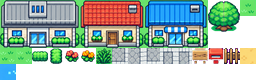
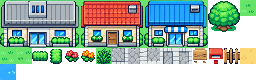
タイル・主人公のドット化：縮小フィルタをやめ、元絵のブロック中心の中央値を1ドットずつ拾う（輪郭がぼやけない）。道・水のオートタイルもドット単位で描く
Claude-Session: https://claude.ai/code/session_018VDSYCPciSbMvR8kKaJDnr

diff --git a/js/tiles.js b/js/tiles.js
@@ -44,26 +44,31 @@ const Tiles = (() => {
       const c = document.createElement('canvas'); c.width = 16; c.height = 16;
       const g = c.getContext('2d');
       g.drawImage(variant('grass', 3, x, y), 0, 0);
+      // ドット単位で内外を決める（曲線のアンチエイリアスでぼやけないように）
       const inset = kind === 'water' ? 2 : 3, r = kind === 'water' ? 3 : 5;
       const N = mask & 1, E = mask & 2, S = mask & 4, W = mask & 8;
-      const x0 = W ? -8 : inset, y0 = N ? -8 : inset, x1 = E ? 24 : 16 - inset, y1 = S ? 24 : 16 - inset;
-      const rr = (open1, open2) => (open1 || open2) ? 0 : r;   // 両側が閉じている角だけ丸める
-      const path = () => {
-        g.beginPath();
-        const tl = rr(N, W), tr = rr(N, E), br = rr(S, E), bl = rr(S, W);
-        g.moveTo(x0 + tl, y0); g.lineTo(x1 - tr, y0); g.quadraticCurveTo(x1, y0, x1, y0 + tr);
-        g.lineTo(x1, y1 - br); g.quadraticCurveTo(x1, y1, x1 - br, y1);
-        g.lineTo(x0 + bl, y1); g.quadraticCurveTo(x0, y1, x0, y1 - bl);
-        g.lineTo(x0, y0 + tl); g.quadraticCurveTo(x0, y0, x0 + tl, y0);
-        g.closePath();
+      const x0 = W ? -8 : inset, y0 = N ? -8 : inset, x1 = E ? 24 : 16 - inset, y1 = S ? 24 : 16 - inset;   // [x0,x1) の範囲
+      const inside = (px, py) => {
+        if (px < x0 || px >= x1 || py < y0 || py >= y1) return false;
+        // 両側が閉じた角だけ丸める：角の中心からの距離で判定
+        const corner = (cx, cy) => (px + 0.5 - cx) ** 2 + (py + 0.5 - cy) ** 2 <= r * r;
+        if (!N && !W && px < x0 + r && py < y0 + r) return corner(x0 + r, y0 + r);
+        if (!N && !E && px >= x1 - r && py < y0 + r) return corner(x1 - r, y0 + r);
+        if (!S && !W && px < x0 + r && py >= y1 - r) return corner(x0 + r, y1 - r);
+        if (!S && !E && px >= x1 - r && py >= y1 - r) return corner(x1 - r, y1 - r);
+        return true;
       };
-      g.save(); path(); g.clip();
-      g.drawImage(get(kind), 0, 0);
-      g.restore();
-      // 縁取り（内側に1px）
-      g.save(); path(); g.clip();
-      path(); g.lineWidth = 2; g.strokeStyle = kind === 'water' ? 'rgba(20,60,120,0.75)' : 'rgba(150,110,40,0.45)'; g.stroke();
-      g.restore();
+      const tex = get(kind).getContext('2d').getImageData(0, 0, 16, 16).data;
+      const out = g.getImageData(0, 0, 16, 16), d = out.data;
+      const edge = kind === 'water' ? [24, 70, 130] : [150, 110, 40], ea = kind === 'water' ? 0.8 : 0.45;
+      for (let py = 0; py < 16; py++) for (let px = 0; px < 16; px++) {
+        if (!inside(px, py)) continue;
+        const i = (py * 16 + px) * 4;
+        const rim = !inside(px - 1, py) || !inside(px + 1, py) || !inside(px, py - 1) || !inside(px, py + 1);
+        for (let k = 0; k < 3; k++) d[i + k] = rim ? Math.round(tex[i + k] * (1 - ea) + edge[k] * ea) : tex[i + k];
+        d[i + 3] = 255;
+      }
+      g.putImageData(out, 0, 0);
       cache.set(key, c);
     }
     return cache.get(key);

diff --git a/tools/town-tiles.py b/tools/town-tiles.py
@@ -30,17 +30,34 @@ def key_bg(crop):
     arr[bg, 3] = 0
     return Image.fromarray(arr)
 OBJ = {'tree', 'hedge', 'hedge_v', 'flower0', 'flower1', 'sign', 'mailbox', 'fence'}
+# ドット化：縮小フィルタ（LANCZOS等）だと中間色でぼやけるので、
+# 出力の1ドットにつき元画像の「ブロックの中心付近」を中央値で1色だけ拾う（輪郭がくっきり残る）
+def pixelize(img, tw, th):
+    arr = np.asarray(img.convert('RGBA')).astype(int); h, w = arr.shape[:2]
+    bx, by = w / tw, h / th
+    r = max(1, int(min(bx, by) * 0.25))   # 中央値を取る窓（ブロックの半分）
+    out = np.zeros((th, tw, 4), dtype=np.uint8)
+    for j in range(th):
+        cy = int((j + 0.5) * by)
+        for i in range(tw):
+            cx = int((i + 0.5) * bx)
+            win = arr[max(0, cy - r):cy + r + 1, max(0, cx - r):cx + r + 1].reshape(-1, 4)
+            a_ = win[:, 3]
+            if (a_ > 127).mean() < 0.5: out[j, i] = (0, 0, 0, 0); continue
+            win = win[a_ > 127]
+            out[j, i] = (*np.median(win[:, :3], axis=0).astype(int), 255)
+    return Image.fromarray(out, 'RGBA')
+
 def cut(i, tw=None, th=None, inner=0.0, obj=False):
     y, x, w, h = cells[i]
     tw = tw or max(1, round(w / CW)); th = th or max(1, round(h / CH))
     ix, iy = int(w * inner), int(h * inner)
     crop = src.crop((x + 2 + ix, y + 2 + iy, x + w - 2 - ix, y + h - 2 - iy))
-    if obj: crop = key_bg(crop)
-    t = crop.resize((tw * 16, th * 16), Image.LANCZOS).convert('RGBA')
-    arr = np.asarray(t).copy()
-    m = (arr[:, :, 0] > 150) & (arr[:, :, 1] < 130) & (arr[:, :, 2] > 150) & (arr[:, :, 0] - arr[:, :, 1] > 60)
+    crop = key_bg(crop) if obj else crop.convert('RGBA')
+    arr = np.asarray(crop).copy()
+    m = (arr[:, :, 0] > 150) & (arr[:, :, 1] < 130) & (arr[:, :, 2] > 150) & (arr[:, :, 0] - arr[:, :, 1] > 60)   # マゼンタ余白
     arr[m, 3] = 0
-    return Image.fromarray(arr)
+    return pixelize(Image.fromarray(arr), tw * 16, th * 16)
 # 茶色（岸）の少ない水マスを中央用に選ぶ
 def brown(i):
     y, x, w, h = cells[i]; c = a[y:y + h, x:x + w]
@@ -65,8 +82,7 @@ def water_center():
             v = br[yy:yy + wh, xx:xx + ww].mean()
             if best is None or v < best[0]: best = (v, xx, yy)
     _, xx, yy = best
-    t = src.crop((x + xx, y + yy, x + xx + ww, y + yy + wh)).resize((20, 20), Image.LANCZOS).convert('RGBA')
-    return t.crop((2, 2, 18, 18))   # 端の明るい縁を落として継ぎ目を目立たなくする
+    return pixelize(src.crop((x + xx, y + yy, x + xx + ww, y + yy + wh)), 16, 16)
 tiles['water'] = water_center()
 # シートに並べる
 items = sorted(tiles.items(), key=lambda kv: (-kv[1].height, -kv[1].width))

diff --git a/tools/hero-sprites.py b/tools/hero-sprites.py
@@ -10,6 +10,23 @@ from scipy import ndimage
 H_OUT = 22          # 出力の高さ（幅は比率から。1マス16pxより少し背が高い）
 DIRS = ['down', 'up', 'left', 'right']
 
+# ドット化（town-tiles.py と同じ考え方）：1ドットにつき元のブロック中心付近の中央値を拾う
+def pixelize(img, tw, th):
+    arr = np.asarray(img.convert('RGBA')).astype(int); h, w = arr.shape[:2]
+    bx, by = w / tw, h / th
+    r = max(1, int(min(bx, by) * 0.25))
+    out = np.zeros((th, tw, 4), dtype=np.uint8)
+    for j in range(th):
+        cy = int((j + 0.5) * by)
+        for i in range(tw):
+            cx = int((i + 0.5) * bx)
+            win = arr[max(0, cy - r):cy + r + 1, max(0, cx - r):cx + r + 1].reshape(-1, 4)
+            a_ = win[:, 3]
+            if (a_ > 127).mean() < 0.5: continue
+            win = win[a_ > 127]
+            out[j, i] = (*np.median(win[:, :3], axis=0).astype(int), 255)
+    return Image.fromarray(out, 'RGBA')
+
 def extract(path, prefix):
     im = Image.open(path).convert('RGB'); a = np.asarray(im).astype(int)
     h, w = a.shape[:2]
@@ -44,7 +61,7 @@ def extract(path, prefix):
             rgba = np.dstack([crop, np.where(m, 255, 0)]).astype(np.uint8)
             s = Image.fromarray(rgba, 'RGBA')
             k = H_OUT / s.height; wo = max(8, round(s.width * k))
-            sprites[f'{prefix}_{DIRS[r]}{c}'] = s.resize((wo, H_OUT), Image.LANCZOS)
+            sprites[f'{prefix}_{DIRS[r]}{c}'] = pixelize(s, wo, H_OUT)
     return sprites
 
 sprites = {}
